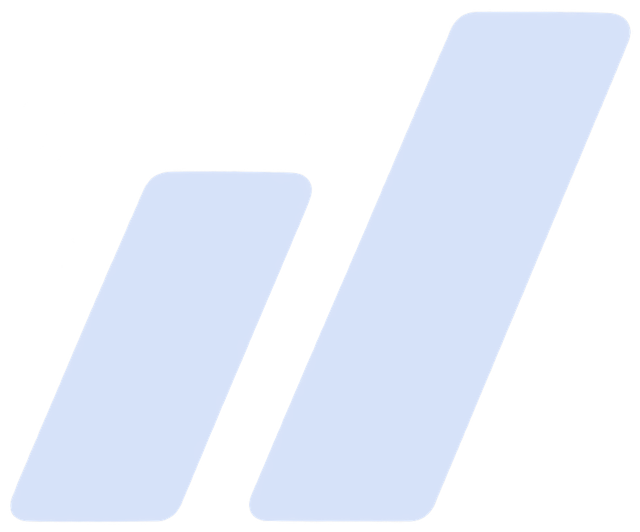
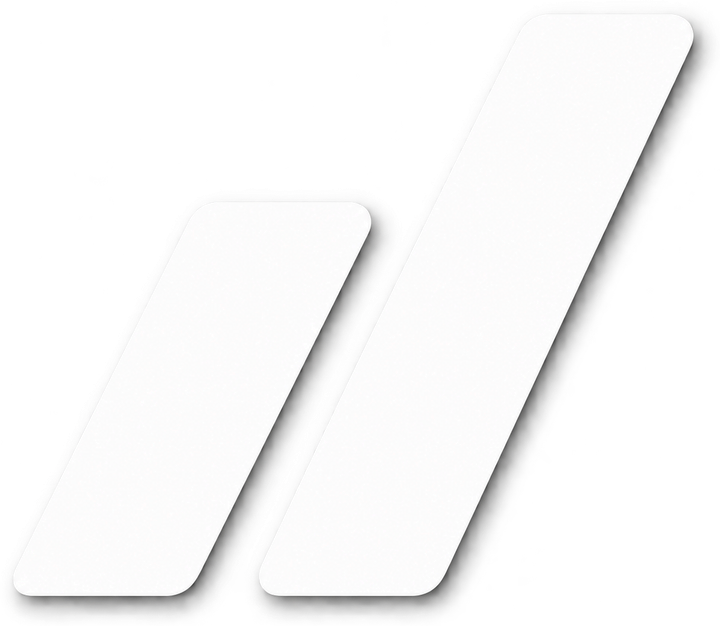
style(pdf): white decorative bars with shadow, anchored bottom-right
Use the new double-slash artwork (no recolor), trimmed to its content, and
resize the block to the new aspect ratio.

diff --git a/web/lib/pdf/StudentBookDocument.tsx b/web/lib/pdf/StudentBookDocument.tsx
@@ -74,7 +74,7 @@ const styles = StyleSheet.create({
   okaLogo: { width: 26, height: 26 },
   okaBrand: { flexDirection: 'row', alignItems: 'center', gap: 7 },
   okaBrandText: { fontSize: 15, fontWeight: 'bold', color: INK },
-  deco: { position: 'absolute', right: 30, bottom: 80, width: 250, height: 208 },
+  deco: { position: 'absolute', right: 30, bottom: 80, width: 260, height: 226 },
   leftEdge: { position: 'absolute', left: 0, top: 0, bottom: 0, width: 2, backgroundColor: '#0B0B0D' },
 
   tagline: { fontSize: 12, color: '#4B5563', marginTop: 40 },
